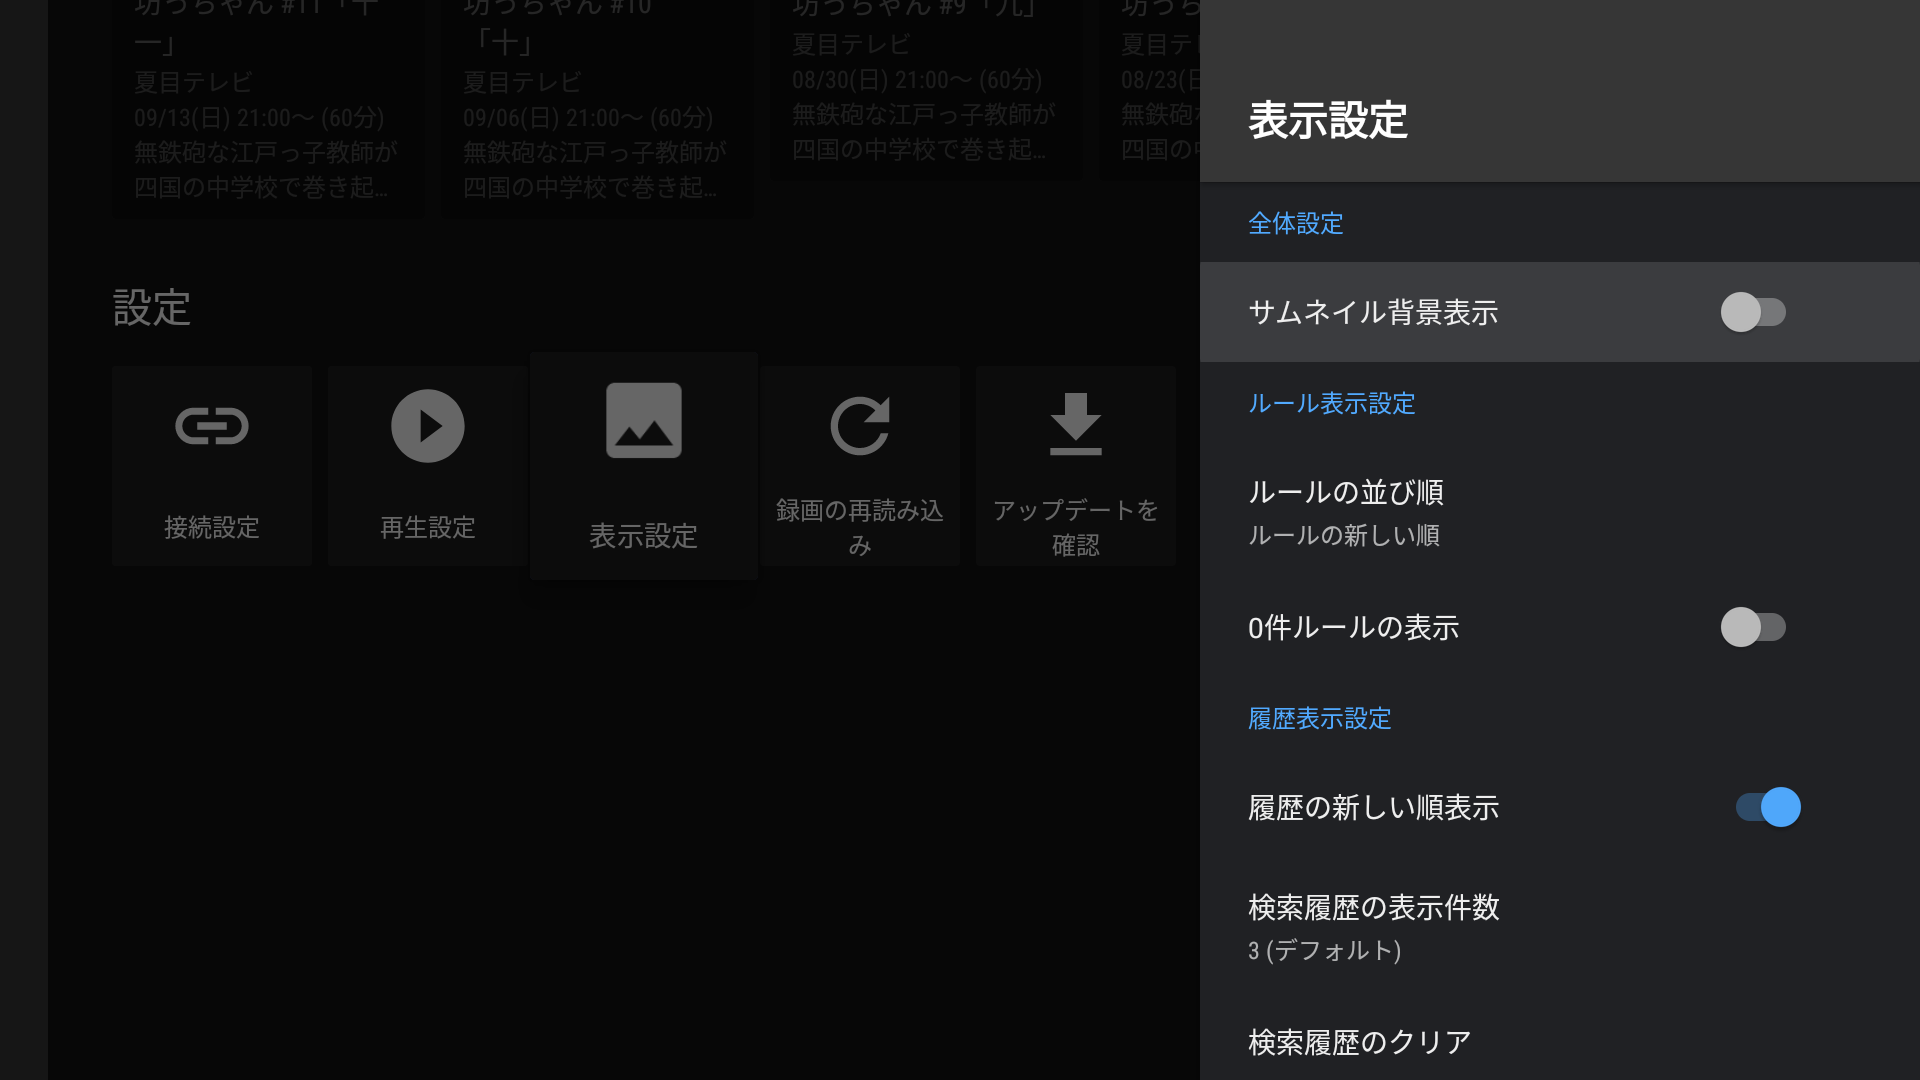
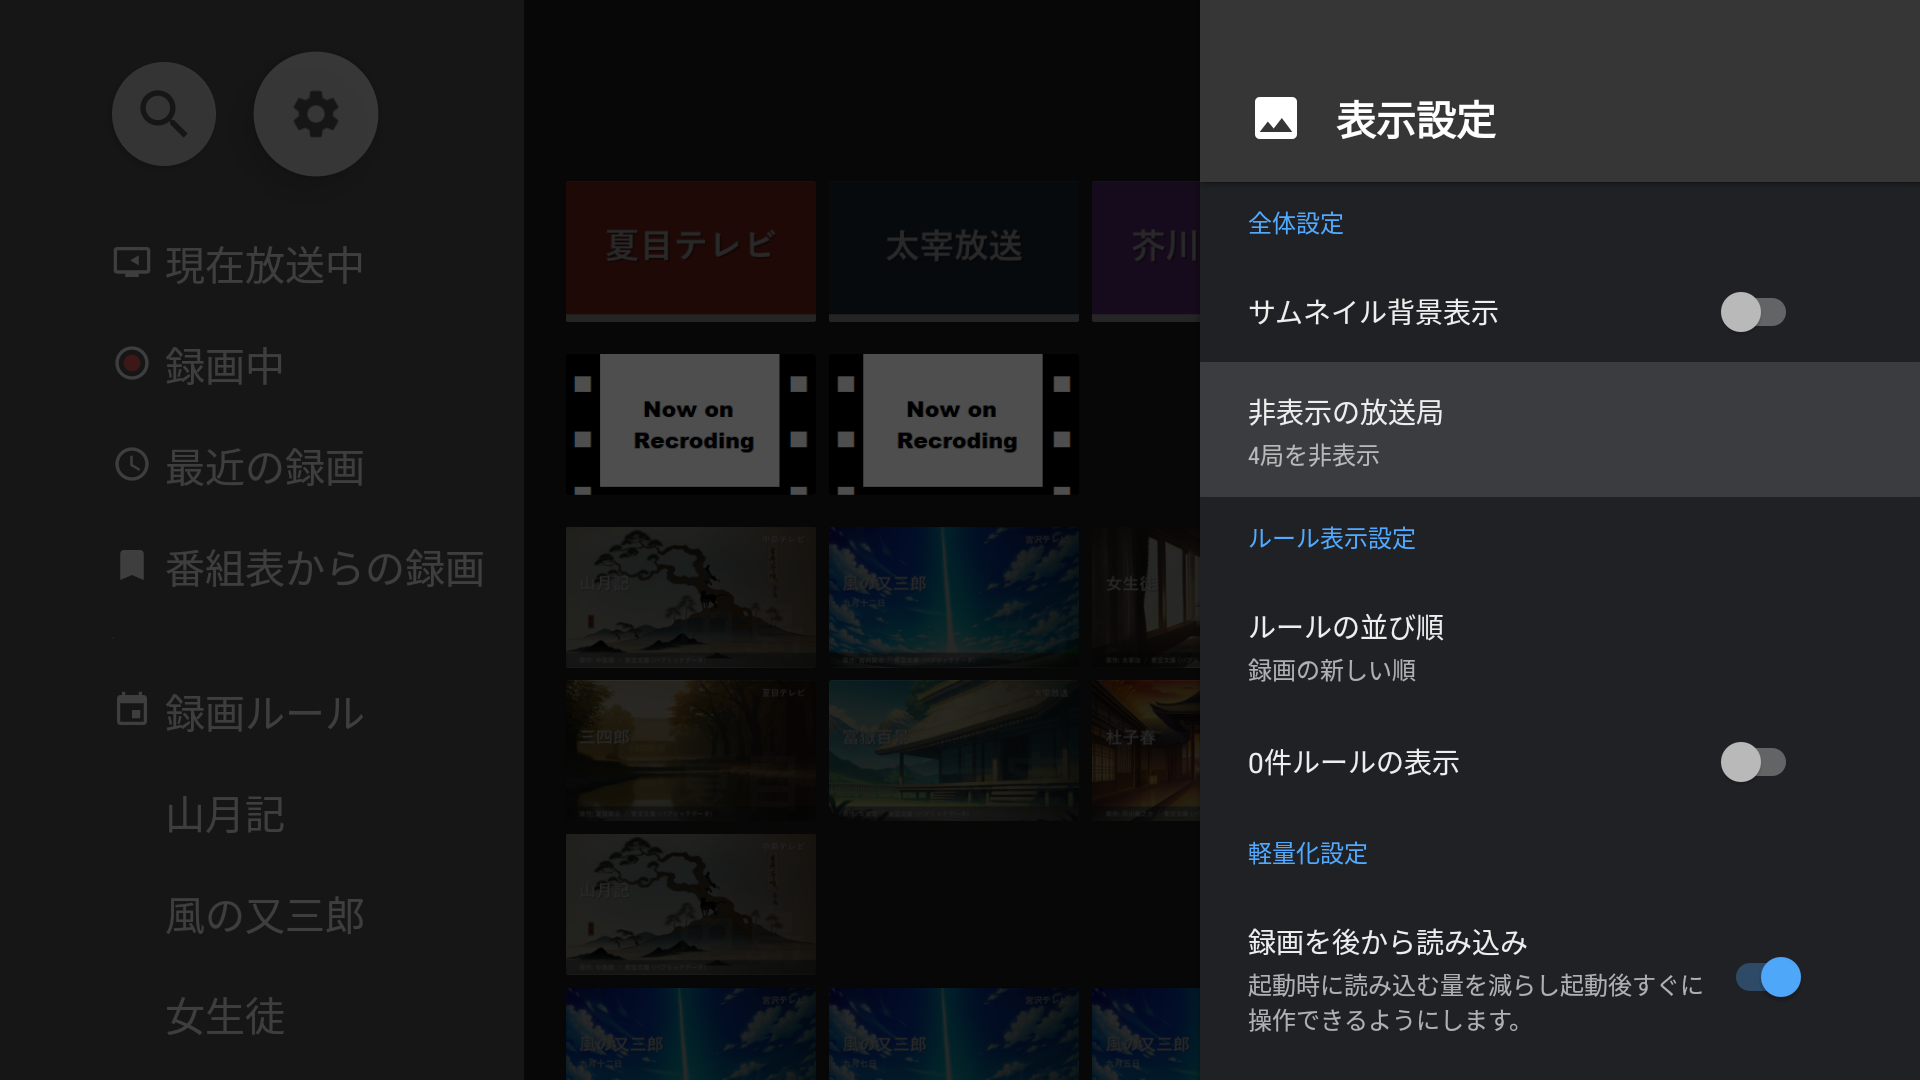
マニュアル用のスクリーンショットを撮り直し・追加する
接続設定と表示設定に増えた項目、放送局カードの長押しメニュー、
ライブ視聴中の選局、軽量化設定の2項目の画面を、モックに接続した
Google TV Streamer で撮った。

diff --git a/WIP.md b/WIP.md
@@ -1,0 +1,38 @@
+# WIP: v1.41 以降の変更をマニュアルに反映する
+
+ブランチ: `docs/manual-update-since-v1.41`
+
+## 目的
+
+v1.41 以降にマージされた変更（#117・#118・#125・#127・#129）を MANUAL.md に反映し、
+スクリーンショットを Google TV Streamer + モックで撮り直す。
+
+## 対象と反映先
+
+| PR | 内容 | 反映先 |
+|---|---|---|
+| #117 | 同時接続数（接続設定）、軽量化設定（録画を後から読み込み・カード内容の短縮） | 5.1・5.3・1.2（番組表からの録画の上限） |
+| #118 | 放送局カードの長押しメニュー（HLSで再生・この放送局を非表示）、非表示の放送局（表示設定） | 1.2・1.5・4.3・5.3 |
+| #125 | 再生画面のタイトルの上端の欠け修正 | 反映なし（見た目の不具合修正のみ） |
+| #127 | 番組がないサブチャンネルを「現在放送中」から外す | 1.2 |
+| #129 | ライブ視聴中の ← → で選局 | 4.2・4.8（新設）・6.4 |
+
+## 完了
+
+- [x] 各 PR の実装を読んだ
+- [x] スクリーンショット撮影（Streamer、モック）
+  - 差し替え: settings-connection.png, settings-display.png
+  - 新規: settings-display-performance.png, card-long-press-live.png, playback-live-zapping.png, card-shortened.png, row-lazy-loading.png
+- [x] AFTT（API 22）で「カード内容の短縮」が初期状態 ON になっていることを確認
+
+## 残タスク
+
+- [ ] MANUAL.md の更新
+- [ ] ユーザーの確認
+- [ ] Streamer の接続設定を実サーバー（192.168.11.33:8888）へ戻す
+- [ ] PR 作成
+
+## 決定事項
+
+- 「非表示の放送局」の一覧ダイアログは撮らない（Streamer では実サーバーの局名が並ぶため）
+- 「カード内容の短縮」の初期 ON 条件はコードどおり Android 7.1 以前（API 25 以下）と書く
